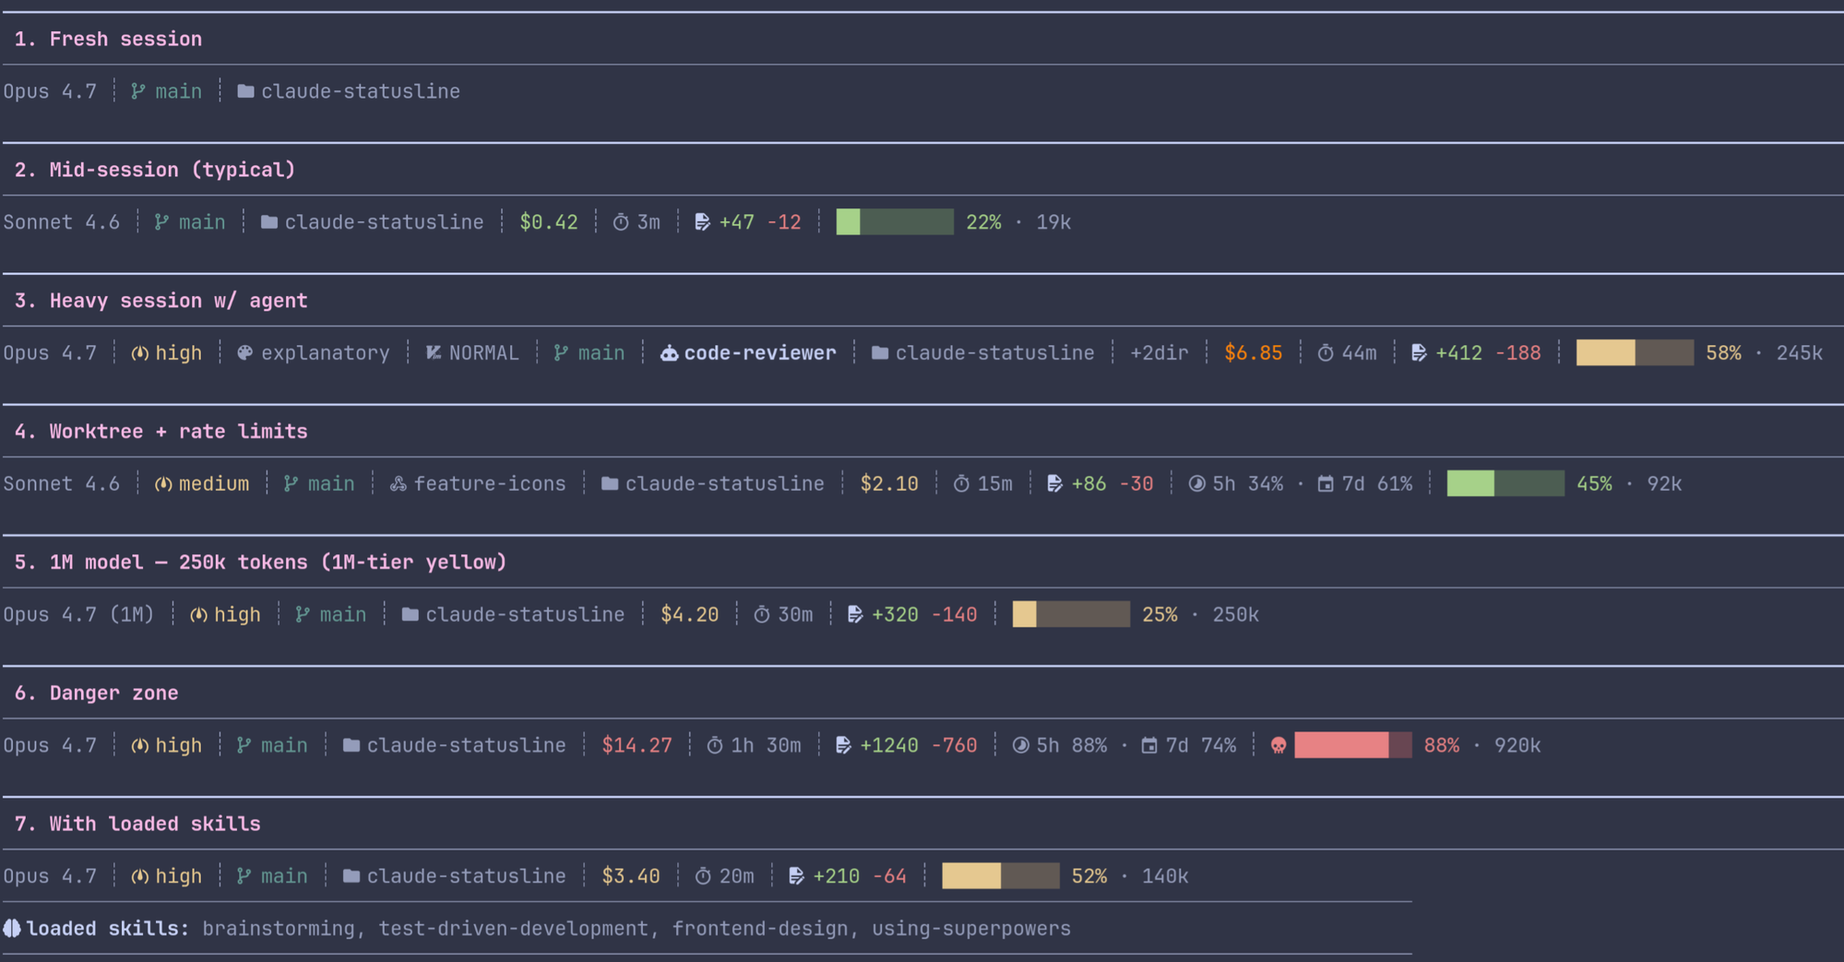
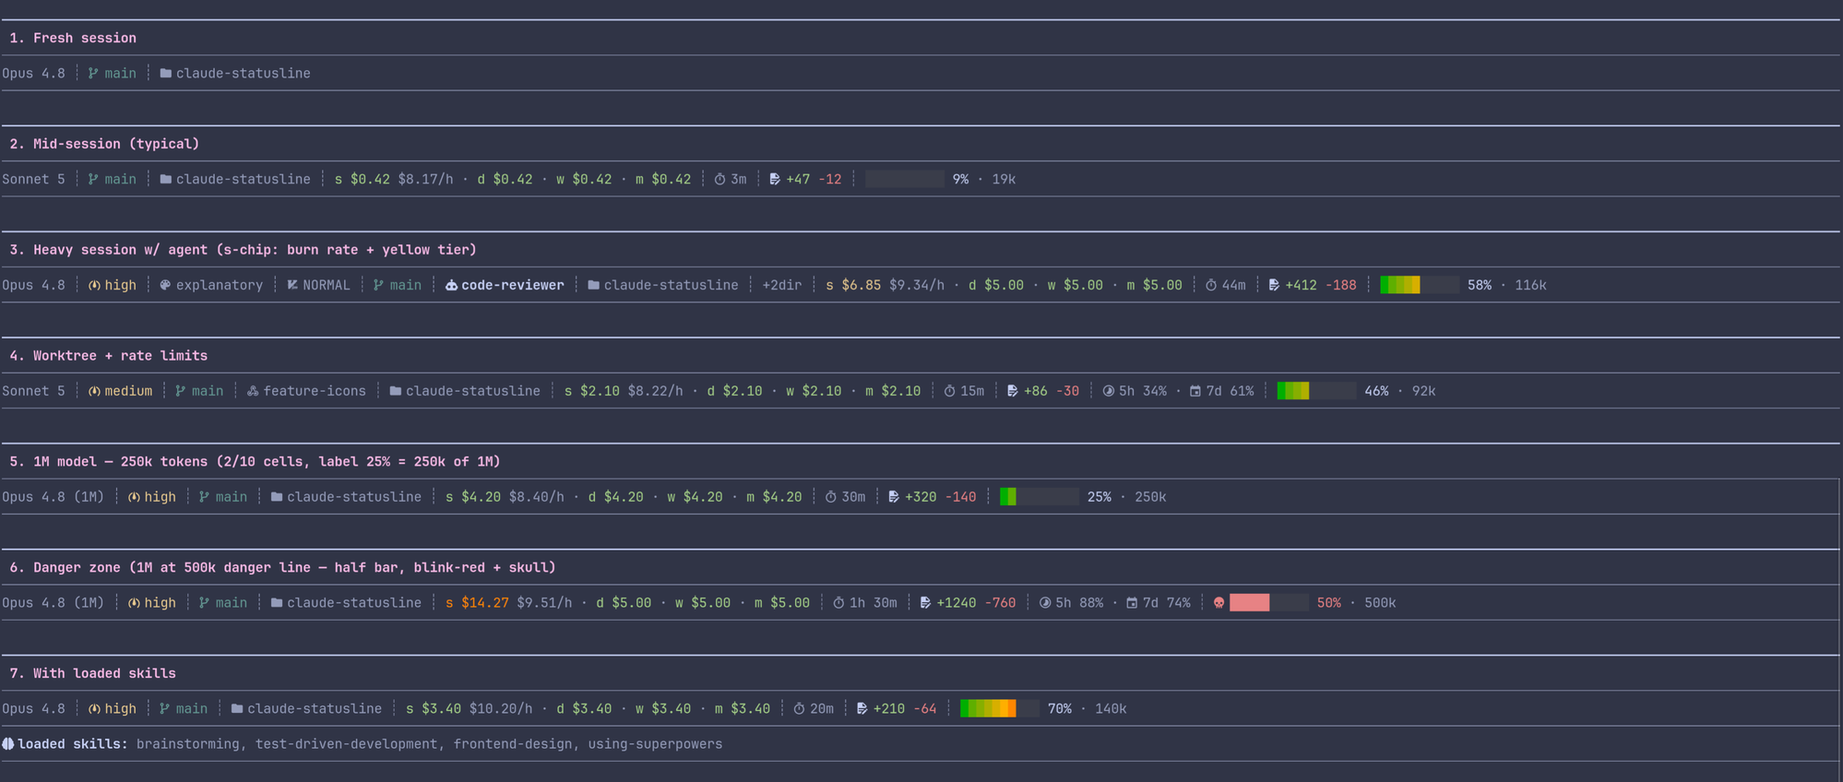
feat: honest context-bar fill — bar spans full window, danger via color (#74)

diff --git a/tests/context-bar.test.js b/tests/context-bar.test.js
@@ -23,7 +23,8 @@ function inp200k(tokens) {
 }
 function inp1M(tokens) {
   const i = baseInput();
-  // usedPct = tokens / 10_000 ⇒ inferred total = 1M → 1M tier.
+  // usedPct = tokens / 10_000 ⇒ inferred total = 1M → 1M tier. Bar spans the full 1M
+  // window (100k/cell), so fill = actual usage: 500k → 5 cells, matching the 50% label.
   i.context_window = { used_percentage: tokens / 10_000, total_input_tokens: tokens };
   return i;
 }
@@ -120,48 +121,50 @@ test('200k: 200_000 tokens → panic blink + skull', async () => {
   assert.ok(stripAnsi(raw).includes(SKULL));
 });
 
-// ─── 1M model — 50k tokens / cell, panic at ≥500k ────────────────────────────
+// ─── 1M model — 100k tokens / cell (full window), panic at ≥500k (cell 5) ─────
+// Bar fill = actual usage: 500k reads as a half-full bar and agrees with the "50%"
+// label. The 500k danger line is conveyed by blink-red + skull, not a fake-full bar.
 
-test('1M: 49_999 tokens → 0 cells', async () => {
-  const raw = await runRaw(inp1M(49_999));
+test('1M: 99_999 tokens → 0 cells', async () => {
+  const raw = await runRaw(inp1M(99_999));
   assert.ok(!raw.includes(cellCode(0)));
 });
 
-test('1M: 50_000 tokens → 1 cell', async () => {
-  const raw = await runRaw(inp1M(50_000));
+test('1M: 100_000 tokens → 1 cell', async () => {
+  const raw = await runRaw(inp1M(100_000));
   assert.ok(raw.includes(cellCode(0)));
   assert.ok(!raw.includes(cellCode(1)));
 });
 
-test('1M: 250_000 tokens → 5 cells', async () => {
+test('1M: 250_000 tokens (25%) → 2 cells, no panic', async () => {
   const raw = await runRaw(inp1M(250_000));
-  assert.ok(raw.includes(cellCode(4)));
-  assert.ok(!raw.includes(cellCode(5)));
+  assert.ok(raw.includes(cellCode(1)));
+  assert.ok(!raw.includes(cellCode(2)));
+  assert.ok(!raw.includes(PANIC_CODE));
 });
 
-test('1M: 400_000 tokens → 8 cells, no panic (1M tier panics only at 500k)', async () => {
+test('1M: 400_000 tokens → 4 cells, no panic (1M tier panics only at 500k)', async () => {
   const raw = await runRaw(inp1M(400_000));
-  assert.ok(raw.includes(cellCode(7)));
-  assert.ok(!raw.includes(cellCode(8)));
+  assert.ok(raw.includes(cellCode(3)));
+  assert.ok(!raw.includes(cellCode(4)));
   assert.ok(!raw.includes(PANIC_CODE));
 });
 
-test('1M: 450_000 tokens → 9 cells, no panic', async () => {
-  const raw = await runRaw(inp1M(450_000));
-  assert.ok(raw.includes(cellCode(8)));
-  assert.ok(!raw.includes(cellCode(9)));
-  assert.ok(!raw.includes(PANIC_CODE));
-});
-
-test('1M: 499_999 tokens → 9 cells, no panic', async () => {
+test('1M: 499_999 tokens → 4 cells, no panic', async () => {
   const raw = await runRaw(inp1M(499_999));
+  assert.ok(raw.includes(cellCode(3)));
+  assert.ok(!raw.includes(cellCode(4)));
   assert.ok(!raw.includes(PANIC_CODE));
 });
 
-test('1M: 500_000 tokens → panic blink + skull', async () => {
+test('1M: 500_000 tokens (50%) → panic, honest half-full bar (5 cells)', async () => {
   const raw = await runRaw(inp1M(500_000));
   assert.ok(raw.includes(PANIC_CODE));
   assert.ok(stripAnsi(raw).includes(SKULL));
+  assert.ok(stripAnsi(raw).includes('50%'));
+  // 5 blink-red cells + 5 dim-grey empties — the bar still reads "half used".
+  assert.equal(stripAnsi(raw).match(/█/g).length, 5);
+  assert.ok(raw.includes(EMPTY_CODE));
 });
 
 test('1M: 900_000 tokens → panic; label shows raw used_percentage (90%)', async () => {
@@ -170,13 +173,12 @@ test('1M: 900_000 tokens → panic; label shows raw used_percentage (90%)', asyn
   assert.ok(stripAnsi(raw).includes('90%'));
 });
 
-test('1M: 218k tokens (22% of 1M) → label "22%" with bar at 4 cells', async () => {
-  // Regression: previously the label read "43%" (% of 500k panic) — confusing because
-  // the user's mental model is "% of the model's context window".
+test('1M: 218k tokens (22% of 1M) → label "22%" with bar at 2 cells', async () => {
+  // The label and bar now agree: 218k is 22% of the 1M window → 2 filled cells.
   const raw = await runRaw(inp1M(218_000));
   assert.ok(stripAnsi(raw).includes('22%'));
-  assert.ok(raw.includes(cellCode(3)));
-  assert.ok(!raw.includes(cellCode(4)));
+  assert.ok(raw.includes(cellCode(1)));
+  assert.ok(!raw.includes(cellCode(2)));
 });
 
 // ─── 1M detection band — tightened to (800k, 1.2M) ───────────────────────────
@@ -201,12 +203,12 @@ test('detection: inferred totalCtx 800k (lower edge) → still 200k tier', async
 
 test('detection: inferred totalCtx 850k → 1M tier engages', async () => {
   // usedPct=20, tokens=170k → inferred 850k. Inside (800k, 1.2M).
-  // 1M tier: 170k tokens → floor(170/50)=3 cells, no panic.
+  // 1M tier (full-window scale): 170k tokens → floor(170/100)=1 cell, no panic.
   const i = baseInput();
   i.context_window = { used_percentage: 20, total_input_tokens: 170_000 };
   const raw = await runRaw(i);
-  assert.ok(raw.includes(cellCode(2)));
-  assert.ok(!raw.includes(cellCode(3)));
+  assert.ok(raw.includes(cellCode(0)));
+  assert.ok(!raw.includes(cellCode(1)));
   assert.ok(!raw.includes(PANIC_CODE));
 });
 
@@ -237,8 +239,8 @@ test('usedPct=0 with non-zero tokens → percent-only fallback (no premature col
 // ─── displayPct floor: no "100%" without panic ───────────────────────────────
 
 test('1M: 499_500 tokens (just below panic) → label "50%" (raw usedPct), no panic', async () => {
-  // displayPct = round(usedPct) = round(49.95) = 50. Bar fills 9 cells but label
-  // shows actual context usage, not "% of panic".
+  // displayPct = round(usedPct) = round(49.95) = 50. Bar fills floor(499.5/100)=4 cells;
+  // panic is at cell 5 (500k), so this is one cell short — no blink/skull yet.
   const raw = await runRaw(inp1M(499_500));
   assert.ok(stripAnsi(raw).includes('50%'));
   assert.ok(!raw.includes(PANIC_CODE));

diff --git a/hooks/statusline.js b/hooks/statusline.js
@@ -157,14 +157,15 @@ const fg256 = (code, s) => `\x1b[38;5;${code}m${s}\x1b[0m`;
 /**
  * Build context bar with per-cell colored progress indicator.
  *
- * 10 cells, each colored by CTX_RAMP[index] when filled (fades green→red as the
- * bar grows). Empty cells are dim grey. Step size and panic threshold scale with
- * the model.
+ * 10 cells span the model's FULL context window (cell N fills at window/10 · N
+ * tokens), so the bar's fill honestly reflects usage: 500k of a 1M model reads as a
+ * half-full bar and agrees with the "50%" label. Danger is signalled by COLOR — the
+ * filled cells go blink-red and a skull is prefixed once usage crosses the panic
+ * cell — NOT by cramming the bar to full. Each safe cell is colored by CTX_RAMP[index]
+ * (fades green→amber as the bar grows); empty cells are dim grey.
  *
- *   200k model: cell N fills at 20k·N tokens
- *               · early warning (blink+skull) ≥ 160k (80% — restores prior contract)
- *   1M model:   cell N fills at 50k·N tokens
- *               · panic (blink+skull) ≥ 500k (user-defined danger line)
+ *   200k model: cell N fills at 20k·N tokens · panic (blink-red + skull) ≥ 160k (cell 8, 80%)
+ *   1M model:   cell N fills at 100k·N tokens · panic (blink-red + skull) ≥ 500k (cell 5, the danger line)
  *
  * 1M detection: inferred total = inputTokens / (usedPct/100). Engages only when the
  * inferred total lands close to 1M (within ±200k → band (800k, 1.2M)). Outside that
@@ -172,8 +173,8 @@ const fg256 = (code, s) => `\x1b[38;5;${code}m${s}\x1b[0m`;
  * — we use 200k thresholds. When inputTokens is missing OR the inference is unreliable
  * (usedPct=0), falls back to percentage-driven fill (10% per cell, panic at ≥80%).
  *
- * displayPct = bar fill (% of the panic threshold). In panic the label is capped
- * at 100% — the skull+blink already signals the severity; the bar itself is full.
+ * displayPct = the raw "% of context window used" from the payload — the label the
+ * user expects. It now matches the bar fill on both tiers (both are % of the window).
  */
 function buildContextBar(usedPct, inputTokens, icons) {
   if (usedPct == null) return '';
@@ -183,41 +184,38 @@ function buildContextBar(usedPct, inputTokens, icons) {
   // Tighter band: must be within ±200k of 1M. Catches cumulative-token leaks in (500k, 800k)
   // that the older (500k, 1.3M) band let through.
   const isLargeCtx = inferredTotal > 800_000 && inferredTotal < 1_200_000;
-  const panicTokens = isLargeCtx ? 500_000 : 200_000;
-  const stepTokens = panicTokens / 10;
-  // Early warning: trigger panic at cell 8 (80% of bar) for the 200k tier so we don't
-  // regress the prior "blink+skull at 80%" contract. The 1M tier keeps panic at the
-  // last cell (500k) as explicitly requested by the user.
-  const panicCell = isLargeCtx ? 10 : 8;
+  // The 10 cells span the model's full window, so the fill = actual usage.
+  const windowTokens = isLargeCtx ? 1_000_000 : 200_000;
+  const stepTokens = windowTokens / 10; // 100k (1M) or 20k (200k) per cell
+  // Panic cell = the danger line, in cells: 1M tier at ≥500k (cell 5), 200k tier at
+  // ≥160k (cell 8, 80% — the long-standing early-warning contract).
+  const panicCell = isLargeCtx ? 5 : 8;
 
   // Use the token-driven path only when we can trust the inference: canInferTotal
   // already requires inputTokens > 0 AND usedPct > 0. usedPct=0 with non-zero
   // inputTokens makes inference undefined → fall back to the percent path (which
   // renders 0 cells, no premature coloring of a possibly-1M session).
 
-  // displayPct is the raw "% of context window used" from the payload — what the user
-  // expects when they see "N%". The bar fill is a separate signal calibrated to the
-  // panic threshold; the two diverge on the 1M tier (e.g. 218k tokens of a 1M model
-  // shows label "22%" with bar at 4/10 cells because 218k is 22% of the window but
-  // 44% of the way to the 500k danger line).
   const displayPct = Math.max(0, Math.min(100, Math.round(usedPct)));
 
   let filled, isPanic = false;
   if (canInferTotal) {
     filled = Math.min(10, Math.floor(inputTokens / stepTokens));
-    if (filled >= panicCell) {
-      isPanic = true;
-      filled = 10;
-    }
+    if (filled >= panicCell) isPanic = true;
   } else {
     // Restore the prior contract: blink+skull at ≥80% when the renderer is in fallback.
     if (displayPct >= 80) isPanic = true;
     filled = Math.min(10, Math.floor(displayPct / 10));
   }
 
+  // Panic: keep the honest fill count — recolor the filled cells blink-red and prefix a
+  // skull. Empty cells stay dim grey so the bar still reads "how full" at a glance.
   if (isPanic) {
-    const bar = icons.barFill.repeat(10);
-    return blink_red(`${icons.skull} ${bar} ${displayPct}%`);
+    let bar = '';
+    for (let i = 0; i < 10; i++) {
+      bar += i < filled ? blink_red(icons.barFill) : fg256(CTX_EMPTY, icons.barEmpty);
+    }
+    return `${blink_red(icons.skull)} ${bar} ${blink_red(displayPct + '%')}`;
   }
 
   let bar = '';

diff --git a/tests/icons.test.js b/tests/icons.test.js
@@ -91,12 +91,12 @@ function richInput(stateDir, projectDir, session) {
 // elsewhere in the output (notably ascii '-' which collides between barEmpty,
 // hr, the lines '-1', the tmp dir basename, etc.).
 //
-// richInput renders: 4 filled + 6 empty cells (1M @ 22%), hr rule ≥20 chars,
+// richInput renders: 2 filled + 8 empty cells (1M @ 22% of the full window), hr rule ≥20 chars,
 // branch `main`, worktree `wt-foo`, duration `45s`, rate limits `50%`/`20%`,
 // style `concise`, vim `NORMAL`, agent `feature-dev`.
 const PARITY_CASES = [
   { mode: 'nerd', patterns: {
-      bar:        /█{4}░{6} 22%/,
+      bar:        /█{2}░{8} 22%/,
       hr:         /─{20,}/,
       branch:     / main/,
       worktree:   / wt-foo/,
@@ -109,7 +109,7 @@ const PARITY_CASES = [
       sep:        /┊/,
     } },
   { mode: 'unicode', patterns: {
-      bar:        /█{4}░{6} 22%/,
+      bar:        /█{2}░{8} 22%/,
       hr:         /─{20,}/,
       branch:     /⎇ main/,
       worktree:   /⊕ wt-foo/,
@@ -122,7 +122,7 @@ const PARITY_CASES = [
       sep:        /┊/,
     } },
   { mode: 'ascii', patterns: {
-      bar:        /#{4}-{6} 22%/,
+      bar:        /#{2}-{8} 22%/,
       hr:         /-{20,}/,
       branch:     /git: main/,
       worktree:   /wt: wt-foo/,

diff --git a/tests/context-bar-invariants.test.js b/tests/context-bar-invariants.test.js
@@ -27,8 +27,8 @@ const isPanic = (raw) => raw.includes(PANIC_CODE);
 
 // ─── Bar-vs-panic invariant ──────────────────────────────────────────────────
 // The contract: panic fires exactly when the bar would otherwise reach panicCell.
-//   200k tier: panicCell=8 → panic iff tokens >= 160_000
-//   1M tier:   panicCell=10 → panic iff tokens >= 500_000
+//   200k tier: panicCell=8 (20k/cell) → panic iff tokens >= 160_000
+//   1M tier:   panicCell=5 (100k/cell) → panic iff tokens >= 500_000
 //   percent fallback:       panic iff displayPct >= 80
 
 test('invariant: 200k tier — panic iff tokens >= 160k (sweep 0..200k step 5k)', async () => {

diff --git a/README.md b/README.md
@@ -84,13 +84,13 @@ The `nerd` example is the screenshot at the top. GitHub's UI has no Nerd Font, s
 Here's the `unicode` set with the same payload as the "mid-session" panel in that screenshot:
 
 ```text
-Sonnet 4.6 ┊ ⎇ main ┊ ▸ claude-statusline ┊ $0.42 ┊ ⏱ 3m ┊ Δ +47 -12 ┊ ██░░░░░░░░ 22% · 19k
+Sonnet 5 ┊ ⎇ main ┊ ▸ claude-statusline ┊ s $0.42 $8.17/h · d $0.42 · w $0.42 · m $0.42 ┊ ⏱ 3m ┊ Δ +47 -12 ┊ ░░░░░░░░░░ 9% · 19k
 ```
 
 And `ascii`:
 
 ```text
-Sonnet 4.6 | git: main | dir: claude-statusline | $0.42 | t: 3m | d +47 -12 | ##-------- 22% , 19k
+Sonnet 5 | git: main | dir: claude-statusline | s $0.42 $8.17/h , d $0.42 , w $0.42 , m $0.42 | t: 3m | d +47 -12 | ---------- 9% , 19k
 ```
 
 The full glyph table for each mode lives in `ICON_SETS` inside [`hooks/statusline.js`](hooks/statusline.js).
@@ -149,7 +149,7 @@ The d/w/m totals are rebuilt once per prompt by the `UserPromptSubmit` hook (`ho
 
 `STATUSLINE_MONTHLY_BUDGET` controls the budget-relative coloring of the d/w/m chips (daily = monthly/30, weekly = monthly×7/30):
 
-- **unset** → $500/mo default
+- **unset** → $1000/mo default
 - **`0`** → hide the d/w/m chips (session chip stays)
 - **a number** → your monthly budget
 
@@ -159,7 +159,7 @@ The d/w/m totals are rebuilt once per prompt by the `UserPromptSubmit` hook (`ho
 }
 ```
 
-The session chip keeps absolute USD tiers (green <$1, yellow <$5, orange <$10, red ≥$10).
+The session chip keeps absolute USD tiers (green <$5, yellow <$10, orange <$20, red ≥$20). Once the session has run ≥60s it also gets a dim burn-rate suffix `$X/h` (spend ÷ elapsed time, straight from the payload — no state).
 
 > **`/clear` does not reset the `s` chip.** `/clear` starts a new session (new id + transcript), but Claude Code's `cost.total_cost_usd` is cumulative across the whole CLI process and survives the clear — so `s` keeps showing the running total and grows from there (same for the `duration` and `lines` chips). The `d`/`w`/`m` totals already count your pre-clear spend correctly (it still belongs to today), but they also get the current session's live cost folded in — and after a `/clear` that live figure still carries the pre-clear total, so d/w/m over-count by up to $5 (the live-delta cap) for the rest of the post-clear session. Only starting a fresh `claude` process clears this.
 
@@ -191,7 +191,7 @@ newest-first by file mtime. Flags: `--last N` (default 10), `--since YYYY-MM-DD`
 
 Segments, left to right:
 
-- **model** - display name (e.g. `claude-sonnet-4-6`)
+- **model** - display name (e.g. `claude-sonnet-5`)
 - **effort** - effort level, when set
 - **skills** - all unique loaded skills this session, oldest→newest, no truncation
 - **output style** - only shows up when it isn't `default`
@@ -204,7 +204,7 @@ Segments, left to right:
 - **duration** - total session time (s / m / h m)
 - **lines** - lines added and removed
 - **rate limits** - 5h and 7d usage percentages, when the payload includes them
-- **context** - 10-cell bar with per-cell 256-color gradient (forest-green → olive → amber → red), dim-grey empty cells, percentage-of-panic-threshold label, dim absolute token count suffix. The step size and panic threshold scale with the model — see below
+- **context** - 10-cell bar spanning the model's full context window, with per-cell 256-color gradient (forest-green → olive → amber → red), dim-grey empty cells, a `% of the window` label, dim absolute token count suffix. The step size and panic threshold scale with the model — see below
 
 ### Context bar — per-cell gradient
 
@@ -218,20 +218,20 @@ hue:  forest…olive……amber……orange……red……dark-red
 
 A half-full bar fades from forest-green at cell 0 through olive at cell 4. The rightmost filled cell tells you which tier you're in; empty cells are dim grey 240.
 
-**Step size and panic threshold scale with the model:**
+**Step size and panic threshold scale with the model** (the 10 cells always span the full window, so the fill = actual usage):
 
-| Model | Cell step | Panic (blink-red + ``) |
+| Model | Cell step (= window/10) | Panic (blink-red + ``) |
 |---|---|---|
 | 200k | 20k tokens / cell | `≥ 160k` tokens (cell 8 = 80%) |
-| 1M   | 50k tokens / cell | `≥ 500k` tokens (cell 10 = danger line) |
+| 1M   | 100k tokens / cell | `≥ 500k` tokens (cell 5 = danger line) |
 
-The 200k tier panics at 80% to keep the historical "loud blink+skull alarm" early-warning contract. The 1M tier panics only at the explicit 500k danger line — where `/compact` or handoff should already be considered. Past the panic threshold the whole bar blink-reds and gets a `` skull prefix.
+The 200k tier panics at 80% to keep the historical "loud blink+skull alarm" early-warning contract. The 1M tier panics at the explicit 500k danger line — cell 5, i.e. half the bar — where `/compact` or handoff should already be considered. Past the panic threshold the **filled** cells blink-red and a `` skull is prefixed; empty cells stay dim grey, so the bar still honestly reads "how full" (e.g. a half-full blink-red bar at 500k of 1M).
 
 **1M detection**: inferred `total = total_input_tokens / (used_percentage / 100)`. The 1M scale engages only when `800k < total < 1.2M` — a tight band that accepts integer-rounded 1M payloads but rejects cumulative-token leaks that would otherwise promote a 200k model into the 1M tier.
 
 **Percent-only fallback**: when `total_input_tokens` is missing OR the inference is unreliable (`used_percentage == 0` makes the inferred total undefined), the bar fills at 10% per cell with the same ramp; panic kicks in at `≥ 80%` (matches the original contract).
 
-The `N%` label is the raw `used_percentage` from the payload — i.e. the model's actual context usage. On the 1M tier this **decouples** from the bar: the bar is calibrated to the 500k panic threshold while the label always tracks "% of the model's full context window". So 218k tokens on a 1M model renders a 4-cell bar with label `22%` (218k = 22% of 1M, but 44% of the way to the 500k danger line). The bar tells you "how close to the alarm"; the label tells you "how much of the context you've actually consumed".
+The `N%` label is the raw `used_percentage` from the payload — i.e. the model's actual context usage — and the bar fill **agrees** with it on both tiers (both are % of the full window). So 218k tokens on a 1M model renders a 2-cell bar with label `22%` (218k = 22% of the 1M window). The danger line is shown by color (blink-red + skull past 500k), not by a mismatched fill.
 
 **Worktree convention:** when you're in a worktree and the branch name matches `worktree-<name>`, the branch chip is hidden. The worktree chip already says it. The branch chip comes back the moment the branch diverges (manual checkout, detached HEAD, rename).
 

diff --git a/CLAUDE.md b/CLAUDE.md
@@ -180,22 +180,24 @@ Each segment is emitted only when its source field is present/non-empty. Separat
 
 The bar has 10 cells. Each filled cell gets its own 256-color code from `CTX_RAMP` (`[34, 70, 106, 142, 178, 214, 208, 202, 196, 160]` — forest-green → olive → amber → red → dark-red); empty cells use `CTX_EMPTY` (240, dim grey). So a half-full bar literally fades from forest-green at cell 0 through olive at cell 4; the rightmost filled cell tells you which tier you're in.
 
+The **10 cells span the model's full context window**, so the bar fill honestly reflects usage and always agrees with the `N%` label — 500k of a 1M model reads as a half-full bar. The 500k danger line is conveyed by **color** (the filled cells go blink-red + a `` skull is prefixed), **not** by cramming the bar to full.
+
 **Token-driven fill** (when `total_input_tokens > 0` AND `used_percentage > 0`):
 
-| Model | Cell step | Panic (blink-red + ``) |
+| Model | Cell step (= window/10) | Panic (blink-red + `` skull) |
 |---|---|---|
 | 200k | 20k tokens / cell | `≥ 160k` tokens (cell 8 = 80%, restores the prior contract) |
-| 1M   | 50k tokens / cell | `≥ 500k` tokens (cell 10 = user-defined danger line) |
+| 1M   | 100k tokens / cell | `≥ 500k` tokens (cell 5 = the danger line) |
 
-So a 200k model fills cell N at `20k · N` tokens; a 1M model fills cell N at `50k · N` tokens. The 200k tier keeps the historical "blink+skull at 80%" alarm so users still get the loud early warning; the 1M tier panics only at the explicit 500k danger line (where `/compact` or handoff should already be considered).
+So a 200k model fills cell N at `20k · N` tokens; a 1M model fills cell N at `100k · N` tokens. The 200k tier keeps the historical "blink+skull at 80%" alarm (cell 8); the 1M tier panics at the explicit 500k danger line — which is cell 5 (half the bar), where `/compact` or handoff should already be considered.
 
 **Percent-driven fallback** (when `total_input_tokens` is missing OR the inference is unreliable — e.g. `used_percentage == 0`): `filled = floor(used_percentage / 10)`; panic at `used_percentage ≥ 80` (matches the original contract). Same per-cell ramp.
 
-**Panic mode**: all 10 cells switch to blink-red and a `` skull is prefixed. The `N%` label keeps showing the raw `used_percentage` (% of context window) in panic too — the skull + blink convey severity, the number tells the user how much of the actual context is consumed.
+**Panic mode**: the filled cells switch to blink-red and a `` skull is prefixed; empty cells stay dim grey so the bar still reads "how full" at a glance (e.g. 5 blink-red + 5 grey at 500k). The `N%` label keeps showing the raw `used_percentage` (% of context window) — the skull + blink convey severity, the number and fill both tell the user how much of the actual context is consumed.
 
 **1M detection**: inferred `total = total_input_tokens / (used_percentage / 100)`. The 1M tier engages only when `800k < total < 1.2M` — a tight band that accepts integer-rounded 1M payloads but rejects cumulative-token leaks (e.g. a 200k-model session with cumulative input around 600k would have inferred ≈ 750k and stays on 200k thresholds).
 
-**Display percentage**: the `N%` label is the raw `used_percentage` from the payload — i.e. the model's actual context usage. On the 1M tier this decouples from the bar fill, which is calibrated to the 500k panic threshold: e.g. 218k tokens on a 1M model renders a 4-cell bar with label `22%` (218k is 22% of 1M but 44% of the way to the 500k danger line). Keeping the label aligned to context usage matches what users expect when they see "N%".
+**Display percentage**: the `N%` label is the raw `used_percentage` from the payload — i.e. the model's actual context usage — and now **matches the bar fill on both tiers** (both are % of the window). E.g. 218k tokens on a 1M model renders a 2-cell bar with label `22%` (218k is 22% of the 1M window).
 
 ## Configuration
 
